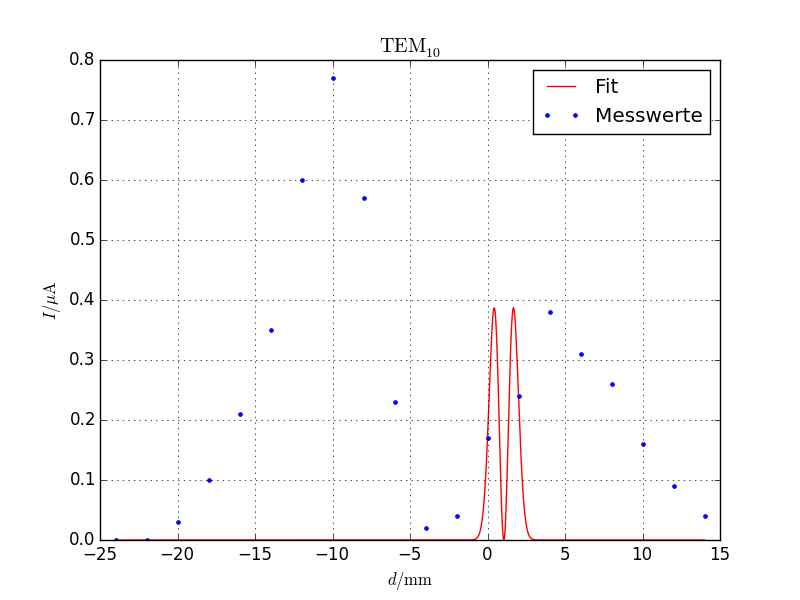
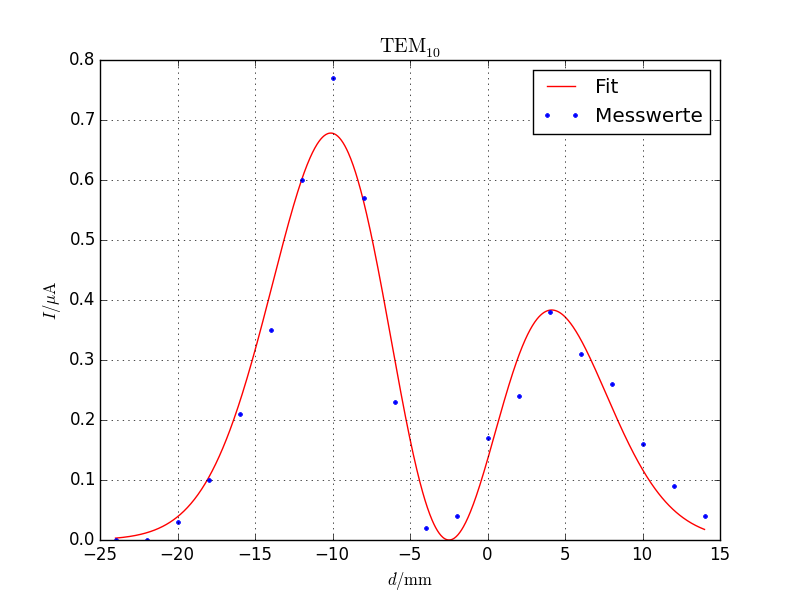
Fit TM10

diff --git a/hene/data/TEM10.py b/hene/data/TEM10.py
@@ -15,8 +15,8 @@ def graph(figure, x, y, title, xlabel, ylabel, savefig):
     plt.grid()
     plt.savefig(savefig + ".png")
 
-def TEM10(x, a, b, c):
-    return a*((x-c)**2)*math.e**(-2*(x-c)**2/b**2)
+def TEM10(x, a, b, c, d):
+    return a*((x-c)**2)*math.e**(-2*(x-d)**2/b**2)
 
 params2, covariance2 = curve_fit(TEM10, d2, I4)
 errors2 = np.sqrt(np.diag(covariance2))
